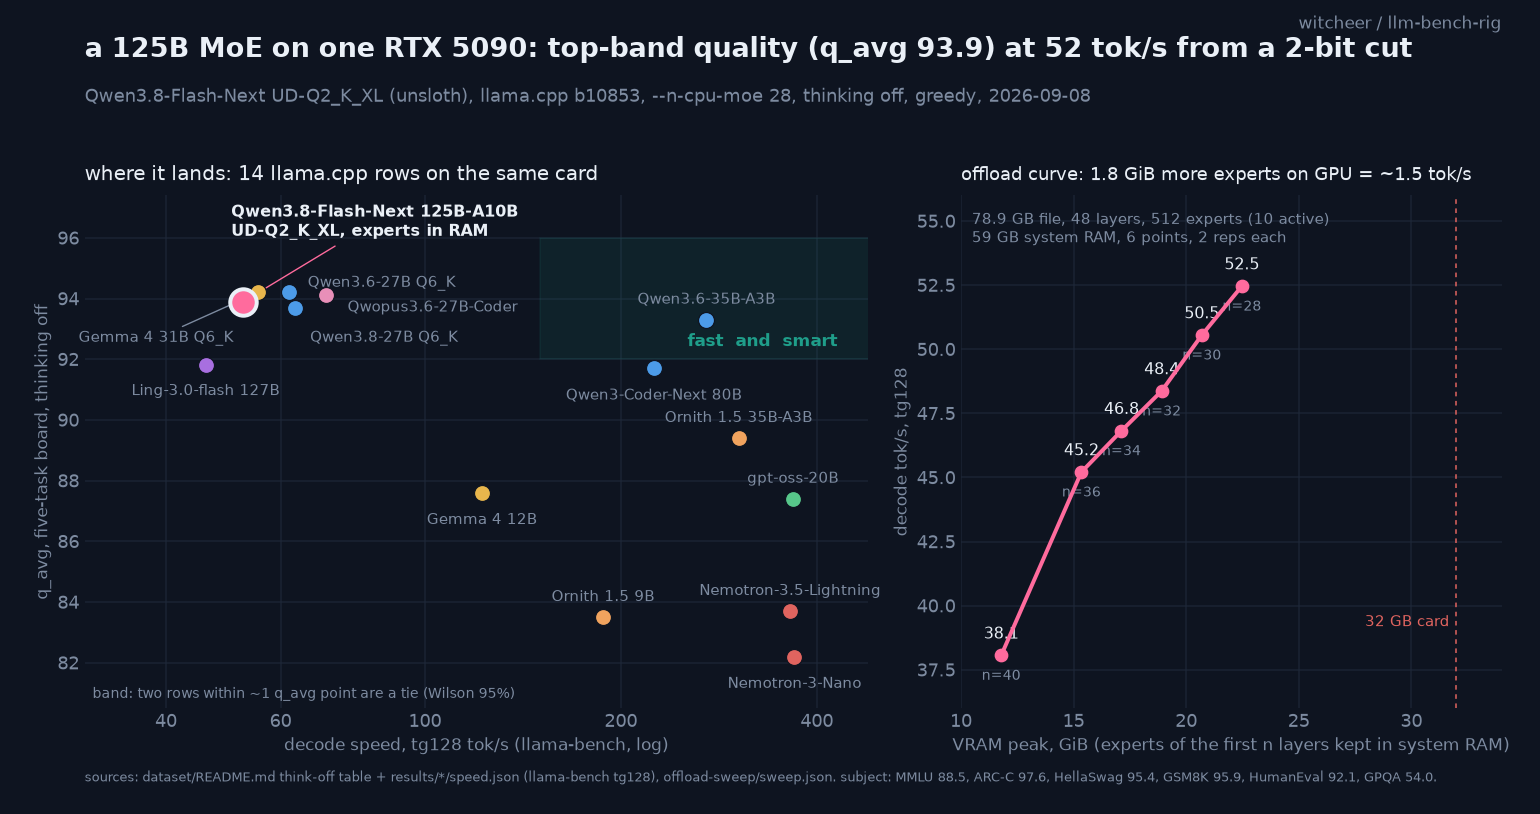
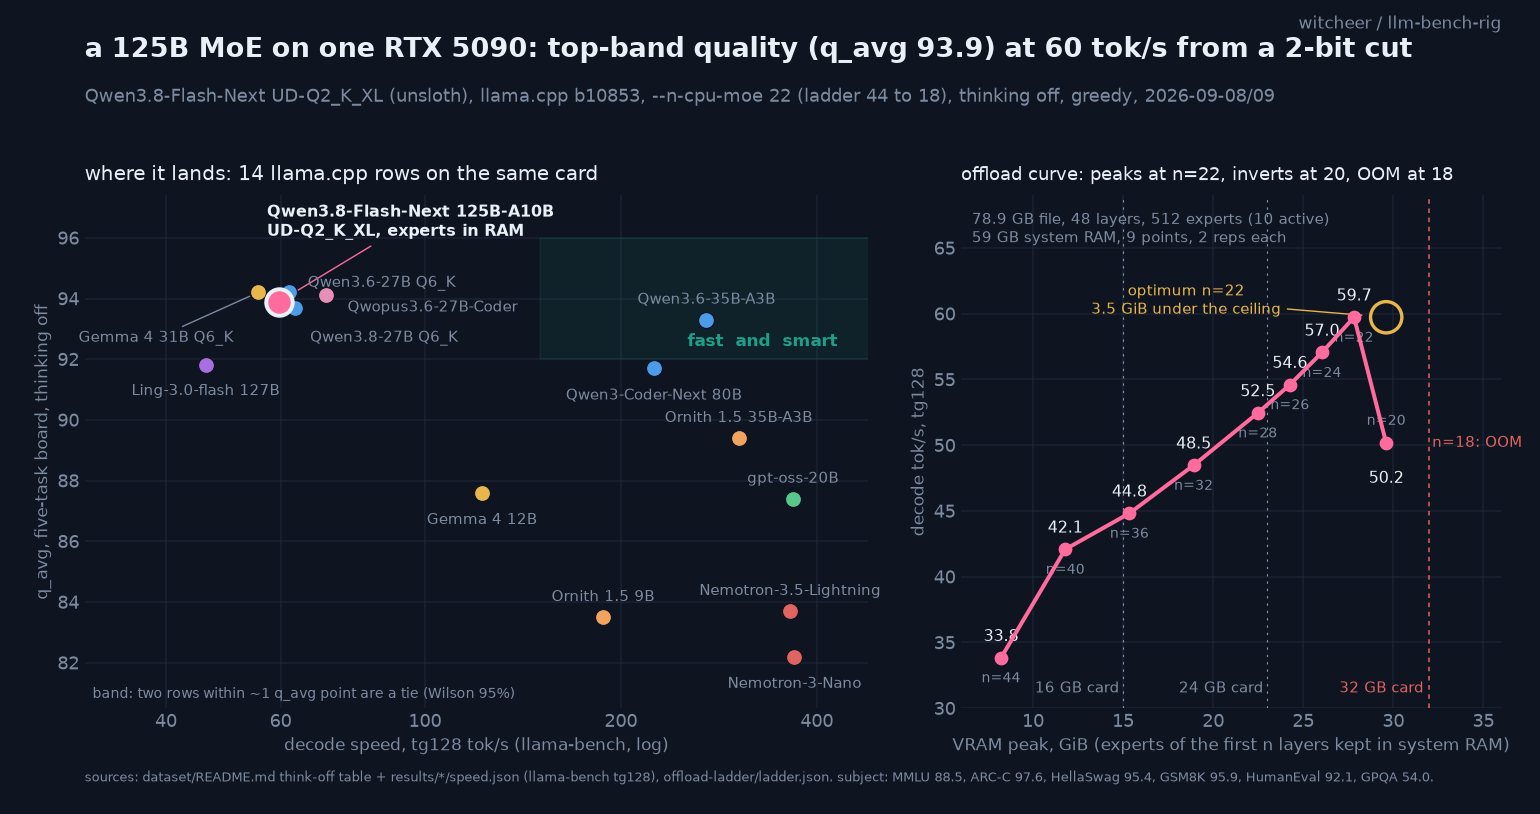
qwen3.8-flash-next: complete offload ladder (44 to 18), optimum n=22 at 59.7 tok/s, per-card points, page-cache edge at n=28; speed row moved to the optimum, chart regenerated

diff --git a/reports/qwen3-8-flash-next-ud-q2-k-xl.md b/reports/qwen3-8-flash-next-ud-q2-k-xl.md
@@ -1,6 +1,6 @@
-# Qwen3.8-Flash-Next on one RTX 5090: a 125B MoE at top-band quality and 52 tok/s from a 2-bit cut
+# Qwen3.8-Flash-Next on one RTX 5090: a 125B MoE at top-band quality and 60 tok/s from a 2-bit cut
 
-**TL;DR.** Qwen3.8-Flash-Next (125B total, 10B active, 512 experts, hybrid linear attention) does not fit a 32 GB card at any quant, so this treatment runs unsloth's UD-Q2_K_XL (78.9 GB) with the routed experts of the first 28 layers in system RAM and everything else on the GPU (`--n-cpu-moe 28`, 23.0 GiB VRAM peak, 59 GB RAM). Result: **q_avg 93.9** on the five-task board (MMLU **88.5**, the highest MMLU on the board; ARC-C 97.6; HellaSwag 95.4; GSM8K 95.9; HumanEval 92.1), inside the top band with Gemma 4 31B Q6_K (94.2) and Qwen3.6-27B Q6_K (94.2), at **52.6 tok/s** decode, 42.5 at 32k depth. GPQA-diamond think-off **54.0**, above every dense 27B rung (49 to 51) and Ornith 35B (52). The offload curve is the practical finding: from 40 to 28 layers offloaded, every 1.8 GiB of experts moved onto the GPU bought about 1.5 tok/s, and the curve was still climbing at the last point measured. The MTP speculative head (open llama.cpp PR #28243, shared Q4_K_M drafter) is **1.25x on code and repetitive text and a loss on prose and chat** in this offload regime: with experts in RAM the verification pass is expensive enough that acceptance below ~0.7 does not pay. unsloth's "1.3 to 1.7x with MTP" holds only for the predictable half of the workloads here.
+**TL;DR.** Qwen3.8-Flash-Next (125B total, 10B active, 512 experts, hybrid linear attention) does not fit a 32 GB card at any quant, so this treatment runs unsloth's UD-Q2_K_XL (78.9 GB) with the routed experts of the first N layers in system RAM and everything else on the GPU (`--n-cpu-moe`; the board and GPQA ran at N=28, 23.0 GiB VRAM peak; the completed ladder puts the speed optimum at N=22, 28.5 GiB; 59 GB RAM). Result: **q_avg 93.9** on the five-task board (MMLU **88.5**, the highest MMLU on the board; ARC-C 97.6; HellaSwag 95.4; GSM8K 95.9; HumanEval 92.1), inside the top band with Gemma 4 31B Q6_K (94.2) and Qwen3.6-27B Q6_K (94.2), at **59.7 tok/s** decode at the ladder optimum (N=22), 51.0 at 32k depth. GPQA-diamond think-off **54.0**, above every dense 27B rung (49 to 51) and Ornith 35B (52). The offload curve is the practical finding: from 44 to 22 layers offloaded, every 1.8 GiB of experts moved onto the GPU bought 1 to 2 tok/s; the curve peaks at N=22 (28.5 GiB), inverts at N=20 (30.3 GiB, 50.2 tok/s) and fails to load at N=18, the same shape the Ling-3 sweep showed in August. A second finding came out of replicating the depth sweep: on this 59 GB box, N=28 sits on the page-cache edge, and prefill at depth varies 2.7x between passes; N=22 does not. The MTP speculative head (open llama.cpp PR #28243, shared Q4_K_M drafter) is **1.25x on code and repetitive text and a loss on prose and chat** in this offload regime: with experts in RAM the verification pass is expensive enough that acceptance below ~0.7 does not pay. unsloth's "1.3 to 1.7x with MTP" holds only for the predictable half of the workloads here.
 
 ![Flash-Next on the board and the offload curve](qwen3-8-flash-next-ud-q2-k-xl.png)
 
@@ -9,42 +9,54 @@
 - **Hardware:** RTX 5090 32GB (sm_120), 59 GB system RAM, single card, single stream.
 - **Model:** `unsloth/Qwen3.8-Flash-Next-GGUF`, `UD-Q2_K_XL` (3-shard split, 78,869,128,864 bytes, every shard size-verified against the HF API at run time), architecture `qwen4exp`, 48 layers, 512 experts with 10 active, `layer_types` 3 linear-attention to 1 full-attention. Vendor config fetched 2026-09-08.
 - **Build:** llama.cpp master `b10853-9dcf84e5a`, a fresh worktree (the arch merged into master on 2026-08-27; none of the rig's four resident builds carried it, verified by grepping `libllama.so`). MTP leg on a second worktree at PR #28243 head `d1a92352c` (danielhanchen, `qwen4exp/mtp`, open at run time).
-- **Offload:** `-ngl 99 --n-cpu-moe N`: dense layers, attention, and the experts of layers N onward on the GPU; the routed experts of the first N layers in system RAM. N chosen by the sweep below.
+- **Offload:** `-ngl 99 --n-cpu-moe N`: dense layers, attention, and the experts of layers N onward on the GPU; the routed experts of the first N layers in system RAM. Quality legs ran at N=28 (the first sweep's floor); the completed ladder below puts the speed optimum at N=22. Quality does not depend on N (same weights, same maths, only placement), so the board row keeps its N=28 scores and takes the N=22 speed.
 - **Quality:** the standing five-task board (MMLU/HellaSwag 50% stratified sample seed 42, ARC-C/GSM8K/HumanEval full), greedy, **thinking off** via `chat_template_kwargs.enable_thinking=false` (probed: the template honours it, letter-only answers come back in 2 tokens), `ctx 8192`. GPQA-diamond 198 items, zero-shot, deterministic shuffle, greedy, think-off.
 - **Speed:** llama-bench pp512/tg128 with the depth sweep at the chosen N; served (HTTP) lane for the MTP leg: 8 prompts x 4 workloads, 256 tokens, temperature 0, `ctx 16384`.
-- Run 2026-09-08, 08:52 to 14:10 CEST in one night-lib script (`fnext-treatment.sh`), Donald drained for the GPU phases and restored. Provenance block (server command, `/props`, template hash, harness sha) in `results/qwen3-8-flash-next-ud-q2-k-xl/meta.json`.
+- Run 2026-09-08, 08:52 to 14:10 CEST in one night-lib script (`fnext-treatment.sh`), Donald drained for the GPU phases and restored. Ladder completed 2026-09-08 23:07 to 23:17 CEST (idle-queue item `20-fnext-offload-ladder.sh`) and 2026-09-09 07:23 to 07:35 CEST (`fnext-ladder-ext.sh`, `fnext-pagecache-probe.sh`); raw per-point json under `results/qwen3-8-flash-next-ud-q2-k-xl/offload-ladder/`. Provenance block (server command, `/props`, template hash, harness sha) in `results/qwen3-8-flash-next-ud-q2-k-xl/meta.json`.
 
-## The offload curve
+## The offload curve (complete ladder, 2026-09-08/09)
 
-llama-bench, `-p 512 -n 128 -r 2`, VRAM peak sampled at 1 Hz:
+llama-bench, `-p 512 -n 128 -r 2`, VRAM peak sampled at 1 Hz. Nine points from N=44 down to the first load failure:
 
-| `--n-cpu-moe` | tg128 tok/s | pp512 tok/s | VRAM peak |
-|---:|---:|---:|---:|
-| 40 | 38.1 | 254 | 12.1 GiB |
-| 36 | 45.2 | 528 | 15.7 GiB |
-| 34 | 46.8 | 700 | 17.5 GiB |
-| 32 | 48.4 | 720 | 19.4 GiB |
-| 30 | 50.5 | 750 | 21.2 GiB |
-| **28** | **52.5** | **769** | **23.0 GiB** |
+| `--n-cpu-moe` | tg128 tok/s | pp512 tok/s | VRAM peak | fits |
+|---:|---:|---:|---:|---|
+| 44 | 33.8 | 185 | 8.2 GiB | 12 GB card |
+| **40** | **42.1** | 639 | **12.1 GiB** | **16 GB card** |
+| 36 | 44.8 | 682 | 15.7 GiB | |
+| 32 | 48.5 | 717 | 19.4 GiB | |
+| **28** | **52.5** | 768 | **23.0 GiB** | **24 GB card** |
+| 26 | 54.6 | 790 | 24.8 GiB | |
+| 24 | 57.0 | 829 | 26.7 GiB | |
+| **22** | **59.7** | **900** | **28.5 GiB** | **32 GB card, optimum** |
+| 20 | 50.2 | | 30.3 GiB | loads, slower |
+| 18 | fails | | | CUDA error at load |
+
+The first pass (2026-09-08, 40 to 28 in steps of 2) and the completed ladder (2026-09-09, 44 to 18) agree to 0.1 tok/s at every shared point.
 
 Reads:
 
-1. **Near-linear in resident experts.** Each layer's experts are ~0.9 GiB at this quant; every two layers moved onto the card bought about 1.5 tok/s of decode. Same shape as the Ling-3 curve measured on this rig in August (127B, Q3_K_M), which peaked at 27.5 GiB before inverting.
-2. **The sweep stopped short.** 28 was the planned floor and the curve had not turned over; with 9 GiB still free there is room for 26 and 24. That is a 20-minute follow-up and the number to quote will move up a little.
-3. **Prefill is the price.** 770 tok/s pp512 against ~3,100 for a fully resident dense 27B; a 16k prompt costs ~20 s of prefill here versus ~5 s resident. Prompt caching (measured on this rig in the spec-cache study) is what makes that bearable for a stable system prompt.
+1. **Near-linear in resident experts, then a cliff.** Each layer's experts are ~0.9 GiB at this quant; every two layers moved onto the card bought 1 to 2.5 tok/s, more per step near the top. At N=20 the card is 30.3 GiB full and decode drops to 50.2: the allocator is squeezing the compute buffers and the KV cache, and 18 does not load. Same shape as the Ling-3 curve measured on this rig in August (127B, Q3_K_M), which peaked at 27.5 GiB before inverting. Rule for a 32 GB card: the optimum is the last rung that leaves about 3.5 GiB free, not the last rung that loads.
+2. **What your card gets.** Read the `fits` column with 1 GiB of headroom: a 16 GB card runs N=40 at 42 tok/s (33.9 at 32k depth), a 24 GB card N=28 at 52.5 (46 at 32k), the 5090 N=22 at 59.7 (51 at 32k). These are 5090 measurements at a VRAM budget, not measurements on those cards; a 4090's bandwidth is 56% of the 5090's, so scale the decode number down. The RAM side is the same 59 GB requirement on every card, because the file is 78.9 GB whichever way it is split.
+3. **Prefill is the price.** 900 tok/s pp512 at N=22 against ~3,100 for a fully resident dense 27B; a 16k prompt costs ~18 s of prefill here versus ~5 s resident. Prompt caching (measured on this rig in the spec-cache study) is what makes that bearable for a stable system prompt.
 
-## Speed at N=28
+## Speed at the optimum (N=22) and at the board point (N=28)
 
-| test | tok/s |
-|---|---:|
-| pp512 | 770.1 ± 33.6 |
-| tg128 | **52.6 ± 0.2** |
-| pp512 @ d8192 | 356.4 |
-| tg128 @ d8192 | 45.3 |
-| pp512 @ d32768 | 364.2 |
-| tg128 @ d32768 | 42.5 |
+| test | N=22, 28.5 GiB | N=28, 23.0 GiB |
+|---|---:|---:|
+| pp512 | 900.5 ± 43.7 | 770.1 ± 33.6 |
+| tg128 | **59.7 ± 0.4** | 52.6 ± 0.2 |
+| pp512 @ d8192 | 826 | 709 (see below) |
+| tg128 @ d8192 | 56.1 | 50.0 |
+| pp512 @ d32768 | 772 | 669 |
+| tg128 @ d32768 | **51.0** | 45.9 |
 
-Decode holds 81% of its empty-context speed at 32k depth. The fully resident Qwen3.8-27B (also hybrid linear attention) holds 92% on this card, so part of the extra decay here is the offload path rather than attention. Prefill at depth halves and then flattens, which is the RAM-side expert traffic dominating once the KV cache is no longer the bottleneck.
+Decode holds 85% of its empty-context speed at 32k depth at N=22 (87% at N=28). The fully resident Qwen3.8-27B (also hybrid linear attention) holds 92% on this card, so part of the extra decay is the offload path rather than attention. The N=28 depth figures above are the warm-cache values from three of five passes; the other two are the subject of the next section.
+
+### The page-cache edge at N=28
+
+The N=28 depth sweep was run five times across two days on an identical build and flag set, and prefill at 8k depth came back 356, 710, 266, 709 and 265 tok/s. Decode at 32k moved with it (42.5, 45.9, 41.0, 46.3, 40.9). tg128 at zero depth was 52.5 every time. A probe sampling the process's major page faults and `/proc/meminfo` every 2 s during one slow pass explains it: the 78.9 GB file is memory-mapped, at N=28 about 56 GB of it is expected to live in RAM on a 59 GB box, and the pass took **736,000 major faults** with MemFree under 0.5 GB throughout. The experts get evicted and re-read from NVMe mid-run, so prefill at depth (which touches the most experts per unit time) is the first thing to pay. The same probe at N=22 took 7,500 major faults, and its five depth numbers agree to within 1 tok/s across passes.
+
+Two consequences. The `speed.json` for this row was regenerated from the N=22 sweep (warm, reproducible). And on a box with 64 GB or less of RAM, moving experts onto the GPU protects prefill as well as decode: N=28 is a valid 24 GB-card point but a fragile one here, and the honest prefill number for it is a range. A 96 GB box would not see this at all.
 
 ## Quality
 
@@ -87,12 +99,13 @@ Read: the acceptance rates are healthy and match what the fully resident 27B MTP
 
 ## Worth it?
 
-**Worth it if** you want the best knowledge-heavy answers this card has produced and can live with 52 tok/s and slow prefill: MMLU 88.5 and GPQA 54 from one consumer GPU plus 59 GB of RAM, with depth decay milder than any dense rung. **Not worth it if** decode speed or long-prompt latency matters: the MoE-in-VRAM rows (Qwen3.6-35B-A3B at 271 tok/s and 93.3; Ornith 35B at 303 and 89.4) are five times faster, and a dense 27B at 62 tok/s prefill-caches a 16k prompt four times quicker. The MTP head is worth turning on for a coding assistant and off for chat.
+**Worth it if** you want the best knowledge-heavy answers this card has produced and can live with 60 tok/s and slow prefill: MMLU 88.5 and GPQA 54 from one consumer GPU plus 59 GB of RAM, with depth decay milder than any dense rung. **Not worth it if** decode speed or long-prompt latency matters: the MoE-in-VRAM rows (Qwen3.6-35B-A3B at 271 tok/s and 93.3; Ornith 35B at 303 and 89.4) are four to five times faster, and a dense 27B at 62 tok/s prefill-caches a 16k prompt three to four times quicker. The MTP head is worth turning on for a coding assistant and off for chat.
 
 ## Honest limits
 
 - One quant (UD-Q2_K_XL), one greedy pass per cell. The three top q_avg rows are a tie inside the error band; "top band" is the claim, not "best".
-- The sweep floor of 28 was a plan choice, not the optimum; 26 and 24 remain to be measured.
-- Speed rows are conditioned on the offload shape and 59 GB of system RAM; a box with different RAM bandwidth moves every decode number. They are not comparable to the resident rows' speed in the same way the quality rows are.
+- The board and GPQA legs ran at N=28 and the speed row at N=22; quality is placement-independent so this is a bookkeeping split, not a mixed configuration. The MTP leg was measured at N=28 and is not re-run at N=22.
+- The N=28 prefill-at-depth figures are cache-state dependent on a 59 GB box (see the page-cache section); the N=22 figures are the reproducible ones.
+- Speed rows are conditioned on the offload shape and 59 GB of system RAM; a box with different RAM bandwidth moves every decode number, and a box with less RAM than the file hits the page-cache effect earlier. They are not comparable to the resident rows' speed in the same way the quality rows are.
 - Think-off only. Flash-Next is a reasoning model; think-on GPQA (the calibration leg used on the 27B ladder) is the natural next leg and would take ~6 h at these speeds.
 - MTP measured on an open PR at one commit; the branch is moving.

diff --git a/dataset/README.md b/dataset/README.md
@@ -108,7 +108,7 @@ Results are **split by reasoning mode**: comparing a thinking-on (reasoning) mod
 
 ¹⁵ Qwopus3.8-27B-Flash (Jackrong's fine-tune of Qwen3.8-27B, Q6_K with embedded MTP head, 22.4GB), measured 2026-09-07 on llama.cpp b10371 against the banked Q6_K base, same harness, same day. Four of five tasks sit within the base's error band; the q_avg is HumanEval alone: **26.8 vs 94.5**, because the tune emits exactly one leading space on every code line in 150 of 164 answers, so nesting depth is destroyed in the output and no whitespace repair recovers it (48/164 at best). The model card discloses the indentation issue; this is its size. Think-on GPQA-diamond (16k budget, paired with a same-day base re-run that reproduced the 2026-08-19 result to the item): **70.7 vs 79.3**, with the tune spending 4,229 completion tokens per correct answer against 7,740 (2.08x on the 125 items both solve), so the card's efficiency claim is real at about 2x and costs 8.6 points. The card's MTP acceptance advantage does not reproduce think-off (weighted 0.762 vs 0.768, 109 to 145 tok/s for both). [Report](reports/qwopus3-8-27b-flash.md).
 
-¹⁶ Qwen3.8-Flash-Next (125B total / 10B active MoE, 512 experts, qwen4exp hybrid linear attention), unsloth UD-Q2_K_XL 78.9GB, does not fit the card: run with the routed experts of the first 28 layers in system RAM (`--n-cpu-moe 28`, 23.0 GiB VRAM peak, 59 GB RAM), llama.cpp b10853 (fresh master worktree; the arch merged 2026-08-27), measured 2026-09-08. Highest MMLU on the board (88.5) and GPQA-diamond 54.0 think-off from a 2-bit cut; GSM8K and HumanEval pay the quant tax. Decode **52.6 tok/s** tg128, 42.5 at 32k depth, prefill 770 tok/s pp512; the offload sweep (40 to 28 layers) gained ~1.5 tok/s per 1.8 GiB of experts moved onto the GPU and had not turned over at 28. MTP head on the open llama.cpp PR #28243: 1.25x on code and repetitive text, a small loss on prose and chat, because under offload a rejected draft costs most of a plain token. Speed rows are offload-conditioned and not comparable to the resident rows. [Report](reports/qwen3-8-flash-next-ud-q2-k-xl.md).
+¹⁶ Qwen3.8-Flash-Next (125B total / 10B active MoE, 512 experts, qwen4exp hybrid linear attention), unsloth UD-Q2_K_XL 78.9GB, does not fit the card: run with the routed experts of the first N layers in system RAM (`--n-cpu-moe N`, 59 GB RAM), llama.cpp b10853 (fresh master worktree; the arch merged 2026-08-27), measured 2026-09-08/09. Quality legs at N=28 (23.0 GiB): highest MMLU on the board (88.5) and GPQA-diamond 54.0 think-off from a 2-bit cut; GSM8K and HumanEval pay the quant tax. Speed at the ladder optimum N=22 (28.5 GiB): decode **59.7 tok/s** tg128, 51.0 at 32k depth, prefill 900 tok/s pp512. The full `--n-cpu-moe` ladder (44 to 18, nine points) climbs 1 to 2.5 tok/s per 1.8 GiB of experts moved onto the GPU, peaks at N=22, inverts at N=20 (30.3 GiB, 50.2 tok/s) and fails to load at N=18: the optimum leaves ~3.5 GiB free, as on the Ling-3 sweep. Per-card points: 16 GB at N=40 (42 tok/s), 24 GB at N=28 (52.5). On this 59 GB box N=28 sits on the page-cache edge (736k major faults during one depth pass, prefill at depth varying 2.7x between identical runs); N=22 does not. MTP head on the open llama.cpp PR #28243 (at N=28): 1.25x on code and repetitive text, a small loss on prose and chat, because under offload a rejected draft costs most of a plain token. Speed rows are offload-conditioned and not comparable to the resident rows. [Report](reports/qwen3-8-flash-next-ud-q2-k-xl.md).
 
 ### Thinking ON (reasoning · extended chain-of-thought)
 
